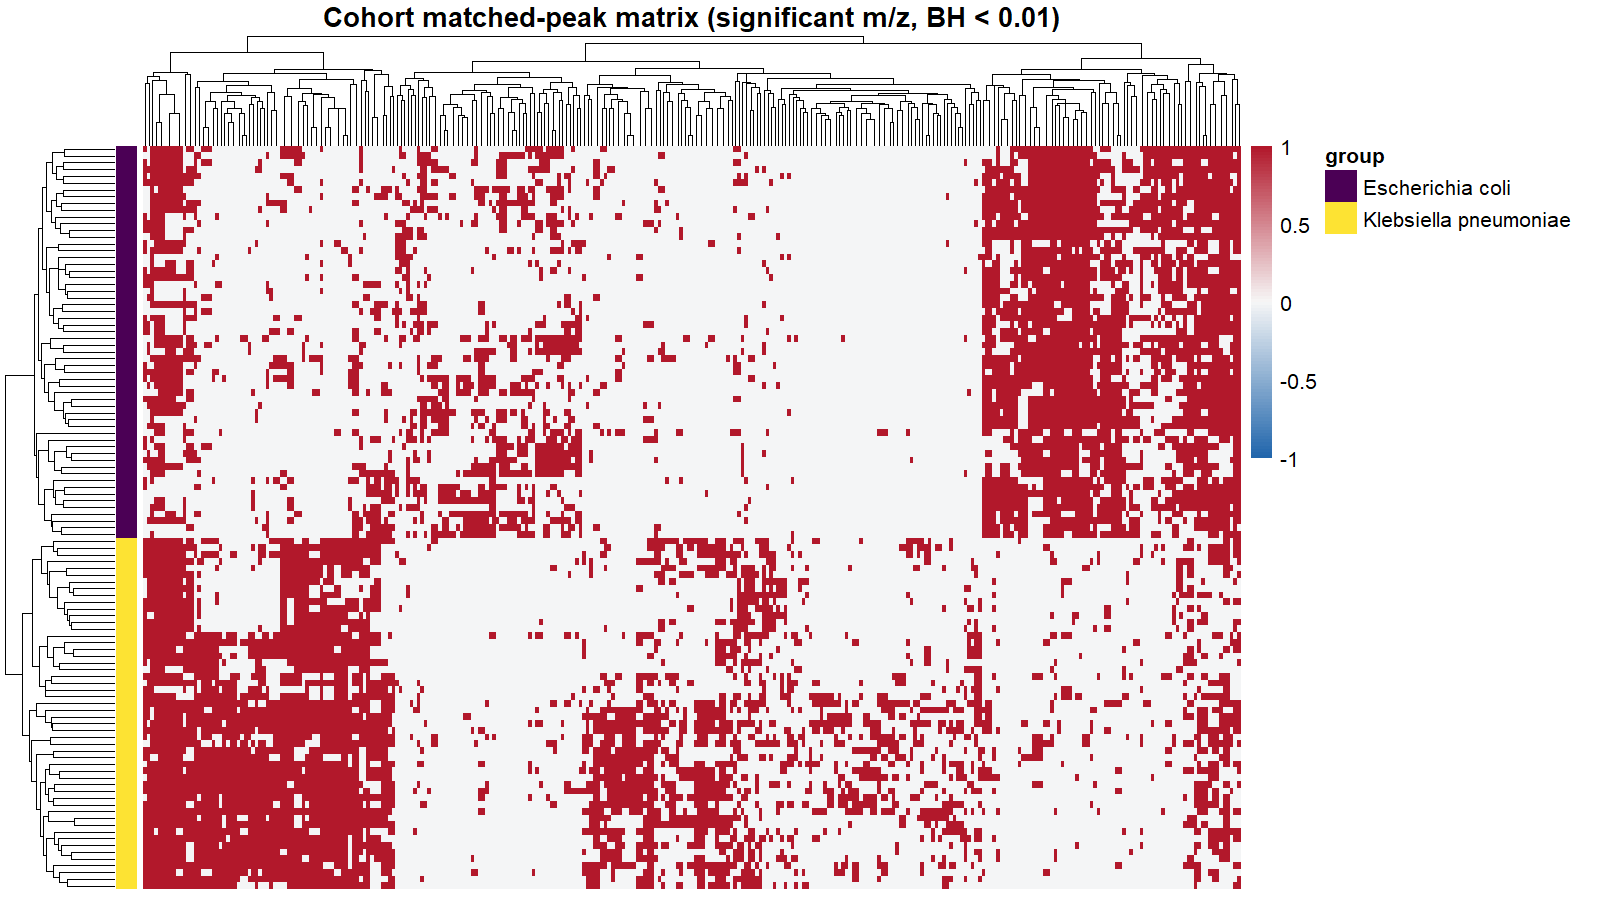
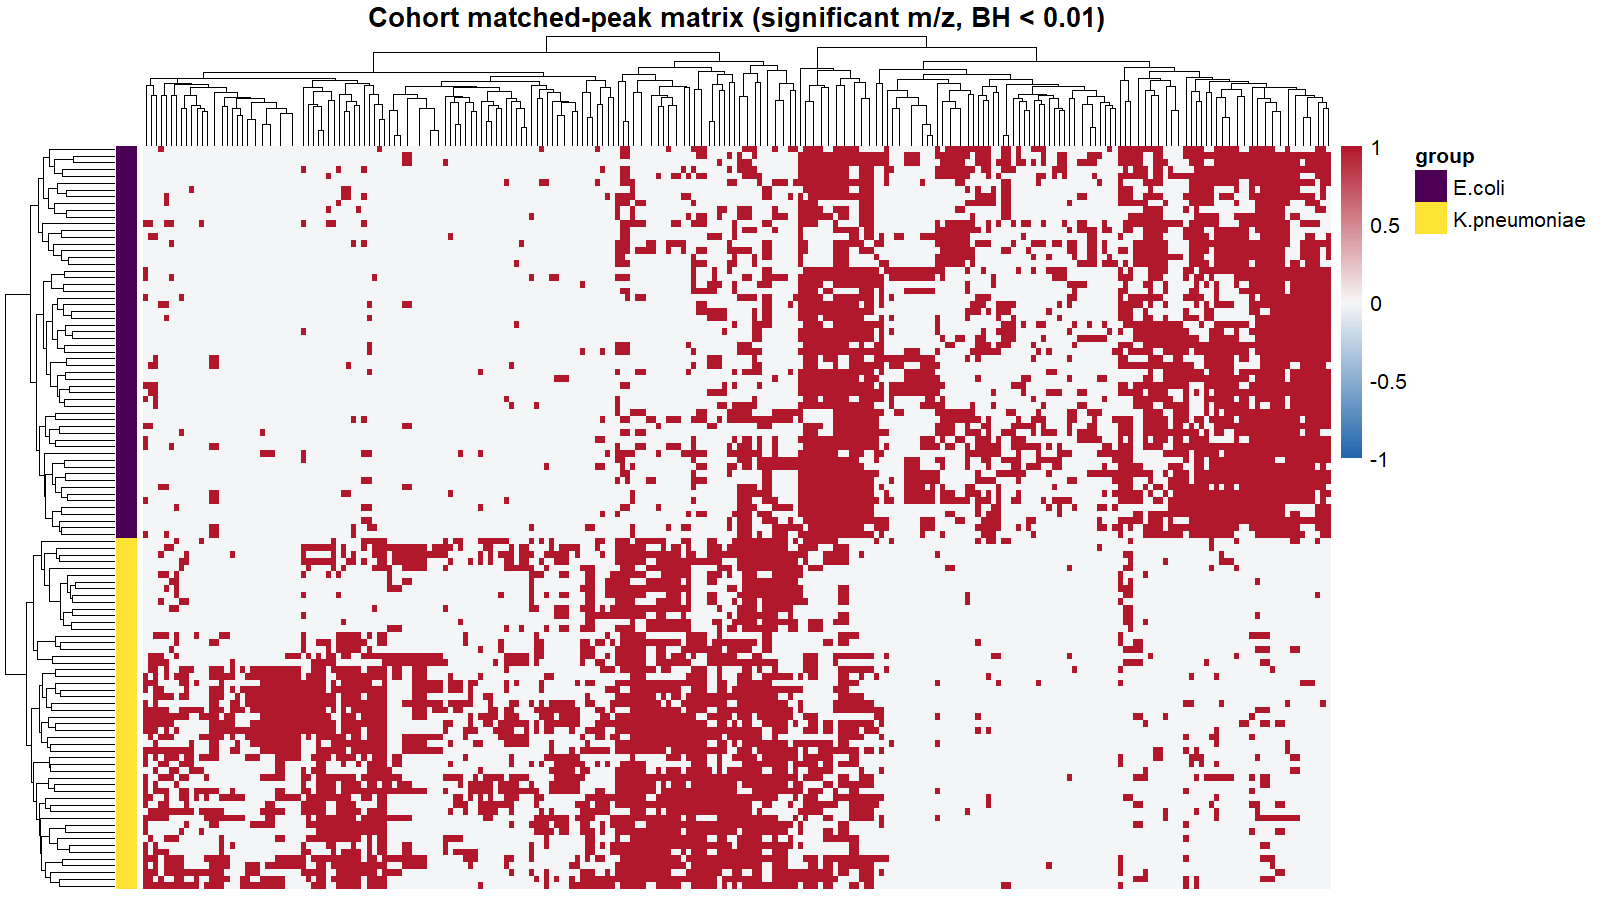
Release v1.0.0
Rename heatmap_matched_matrix() argument groups to group for API consistency with estimate_significance(), and update cohort-analysis README examples and heatmap figure using the PXD058284 workflow.

diff --git a/README.md b/README.md
@@ -129,25 +129,77 @@ visualize_spectra(spectra = preprocessed_spectra)
 
 ## Cohort analysis
 
-Once each sample has a filtered peak table, build a cohort-level feature matrix in four steps: **align → frequent m/z discovery → matrix assembly → significance testing**.
+The example below follows a two-species MALDI-TOF cohort from [PRIDE PXD058284](https://www.ebi.ac.uk/pride/archive/projects/PXD058284): load Bruker spectra and sample metadata, preprocess and pick peaks, align across samples, build a matched-peak matrix, and test for group-discriminating m/z features.
 
-### 1. Align spectra
+### 1. Load spectra and metadata
+
+```r
+library(readxl)
+
+raw_spectra <- load_maldi_spectra(spectra_dir = "data/raw/")
+metadata    <- read_xlsx("data/sample_metadata.xlsx")
+
+# two-level species grouping (one label per sample)
+sample_group <- metadata$Species[match(names(raw_spectra), metadata$SampleID)]
+```
+
+### 2. Preprocess, KDE, and peak picking
+
+```r
+preprocessed_spectra <- preprocess_maldi_spectra(
+  spectra       = raw_spectra,
+  hws_sg        = 10,
+  pno_sg        = 3,
+  baseline_type = "snip",
+  iter_snip     = 50,
+  n_cores       = 4
+)
+
+kde_spectra <- build_kde_spectra(
+  spectra = preprocessed_spectra,
+  bw      = 1,
+  n_cores = 4
+)
+
+peaks_list <- find_peaks_spectra(
+  spectra                    = preprocessed_spectra,
+  bw                         = 1,
+  hws_peaks                  = 10,
+  weight_type                = "raw",
+  cutoff_kappa_peak_strength = 0.3,
+  peak_retention_fraction    = 0.25,
+  n_cores                    = 4
+)
+
+filtered_peaks_list <- filter_peaks_spectra(
+  spectra                = lapply(kde_spectra, `[[`, 1),
+  peaks_list             = peaks_list,
+  cutoff_peak_intensity  = 100,
+  cutoff_peak_prominence = 50,
+  cutoff_peak_strength   = 0.5,
+  normalization_type     = "raw",
+  n_cores                = 4
+)
+```
+
+### 3. Align spectra
 
 `align_spectra()` corrects m/z drift using internal standards selected from frequent, high-intensity peaks. Choose `"linear"` (two-point) or `"lowess"` (multi-point) alignment. It returns one aligned `spectrum` / `peaks` pair per sample (in `alignment_results`) plus the reference `standard_mz` values used as anchors.
 
 ```r
 aligned <- align_spectra(
-  spectra        = preprocessed_spectra,
+  spectra        = lapply(kde_spectra, `[[`, 1),
   peaks_list     = filtered_peaks_list,
-  alignment_mode = "linear"  # or "lowess"
+  bin_width      = 20,
+  alignment_mode = "linear",  # or "lowess"
+  hws_alignment  = 50
 )
 
-aligned_spectra <- lapply(aligned$alignment_results, `[[`, "spectrum")
-aligned_peaks   <- lapply(aligned$alignment_results, `[[`, "peaks")
-exclude_mz      <- aligned$standard_mz   # alignment anchors, excluded below
+aligned_peaks <- lapply(aligned$alignment_results, `[[`, "peaks")
+exclude_mz    <- aligned$standard_mz   # alignment anchors, excluded below
 ```
 
-### 2. Find frequent m/z values
+### 4. Find frequent m/z values
 
 `find_frequent_mz()` scans pooled peak m/z values across the aligned samples and refines each bin location with Gaussian KDE. Pass the alignment anchors to `exclude_mz` so the internal standards are dropped from the feature set.
 
@@ -159,15 +211,15 @@ freq_mz <- find_frequent_mz(
 )
 ```
 
-### 3. Build a matched peak matrix
+### 5. Build a matched peak matrix
 
 `build_matched_matrix()` matches each sample's peaks to the frequent m/z references and returns a detection matrix (`detected_matrix`) and a signed m/z-difference matrix (`delta_mz_matrix`), both sample-by-marker.
 
 ```r
 matched <- build_matched_matrix(
-  peaks_list    = aligned_peaks,
-  reference_mz  = freq_mz$mz,
-  hws_match     = 10
+  peaks_list   = aligned_peaks,
+  reference_mz = freq_mz$mz,
+  hws_match    = 10
 )
 
 mat <- matched$detected_matrix
@@ -178,33 +230,33 @@ Visualize the matrix with `heatmap_matched_matrix()`, optionally annotated by a 
 ```r
 heatmap_matched_matrix(
   matched_matrix = mat,
-  groups         = sample_groups,   # one entry per sample (row)
+  group          = sample_group,   # one entry per sample (row)
   hide_rownames  = TRUE,
   hide_colnames  = TRUE
 )
 ```
 
-### 4. Test for significant m/z features
+### 6. Test for significant m/z features
 
 `estimate_significance()` runs a per-feature two-group comparison (t-test or Wilcoxon) on a sample-by-marker matrix and returns raw and adjusted p-values. Subset the matrix to the significant markers to highlight the discriminating features.
 
 ```r
 sig <- estimate_significance(
   matched_matrix = mat,
-  group          = sample_groups,   # two-level grouping, one entry per sample
+  group          = sample_group,   # two-level grouping, one entry per sample
   stat_method    = "t.test",        # or "wilcox"
   adj_method     = "BH"             # "none", "BH", or "bonferroni"
 )
 
 heatmap_matched_matrix(
   matched_matrix = mat[, which(sig$adj_pvalue < 0.01)],
-  groups         = sample_groups,
+  group          = sample_group,
   hide_rownames  = TRUE,
   hide_colnames  = TRUE
 )
 ```
 
-Applied to a real two-species CPE cohort, the significant markers cleanly separate the samples by species:
+Applied to the PXD058284 two-species cohort (*E. coli* vs *K. pneumoniae*), the significant markers cleanly separate the samples by species:
 
 ![Cohort matched-peak heatmap](man/figures/README-cohort-heatmap.png)
 
@@ -255,15 +307,20 @@ A BibTeX entry:
   title  = {MALDIassist: Mathematical Utilities for MALDI-TOF Mass Spectrometry},
   author = {Wonseok Oh},
   year   = {2026},
-  note   = {R package version 0.1.3},
+  note   = {R package version 1.0.0},
   url    = {https://github.com/hiows/MALDIassist},
   doi    = {10.5281/zenodo.21307258}
 }
 ```
 
-Archived on Zenodo: [10.5281/zenodo.21307258](https://doi.org/10.5281/zenodo.21307258) (v0.1.3). To cite the software regardless of version, use the concept DOI [10.5281/zenodo.21219451](https://doi.org/10.5281/zenodo.21219451).
+Archived on Zenodo: [10.5281/zenodo.21307258](https://doi.org/10.5281/zenodo.21307258) (v0.1.3). A v1.0.0 archive will be published with the next GitHub release. To cite the software regardless of version, use the concept DOI [10.5281/zenodo.21219451](https://doi.org/10.5281/zenodo.21219451).
 
 ## Changelog
+
+### v1.0.0
+
+- **Breaking:** `heatmap_matched_matrix()`: rename argument `groups` → `group` (aligns with `estimate_significance()`)
+- Update cohort-analysis README examples and regenerate heatmap figure using PXD058284-based workflow
 
 ### v0.1.3
 